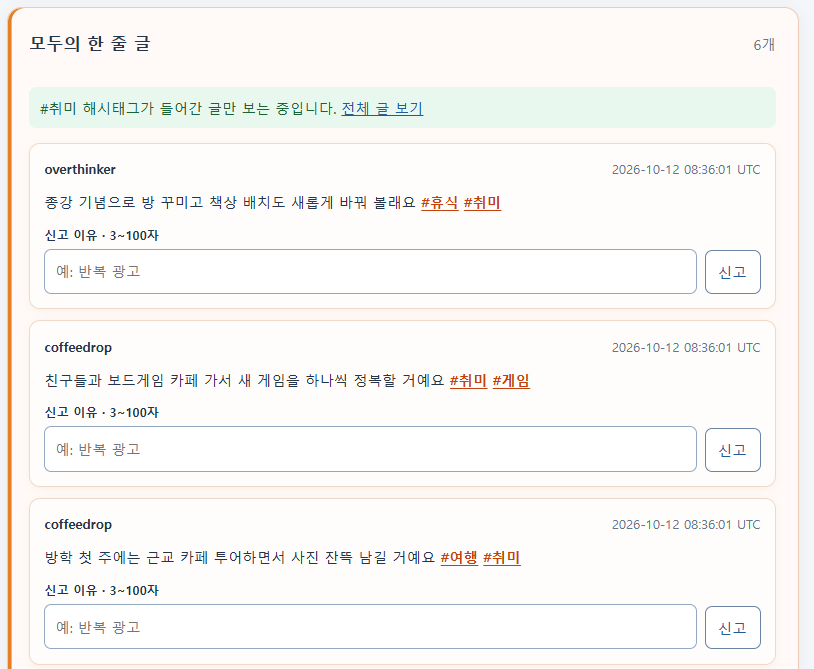
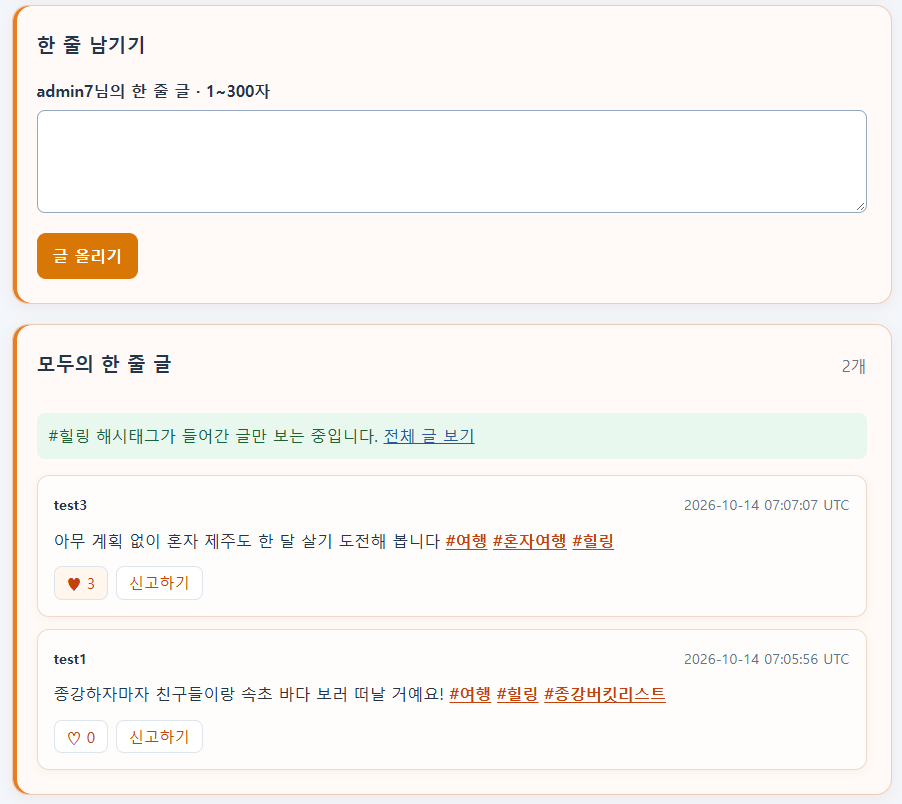
feat: 7주차 실습 수정

diff --git a/README.md b/README.md
@@ -177,6 +177,6 @@
 - 관리 기능 시험 결과: 연습 계정 글 생성하기, 삭제하기, 차단하기 등 기능이 잘 작동한다.
 - 실행 화면: 
 
-| 실행 화면 | 글 작성 및 보기 | 해시태그 별로 보기 | 관리 화면 |
+| 실행 화면 | 글 작성 및 보기 | 해시태그 및 좋아요 기능 | 관리 화면 |
 |---|---|---|---|
-| 이미지 | ![글 작성 및 보기](images/w7a1.png) | ![해시태그 별로 보기](images/w7a2.png) | ![관리 화면](images/w7a3.png) |
+| 이미지 | ![글 작성 및 보기](images/w7a1.png) | ![해시태그 및 좋아요 기능](images/w7a2.png) | ![관리 화면](images/w7a3.png) |
